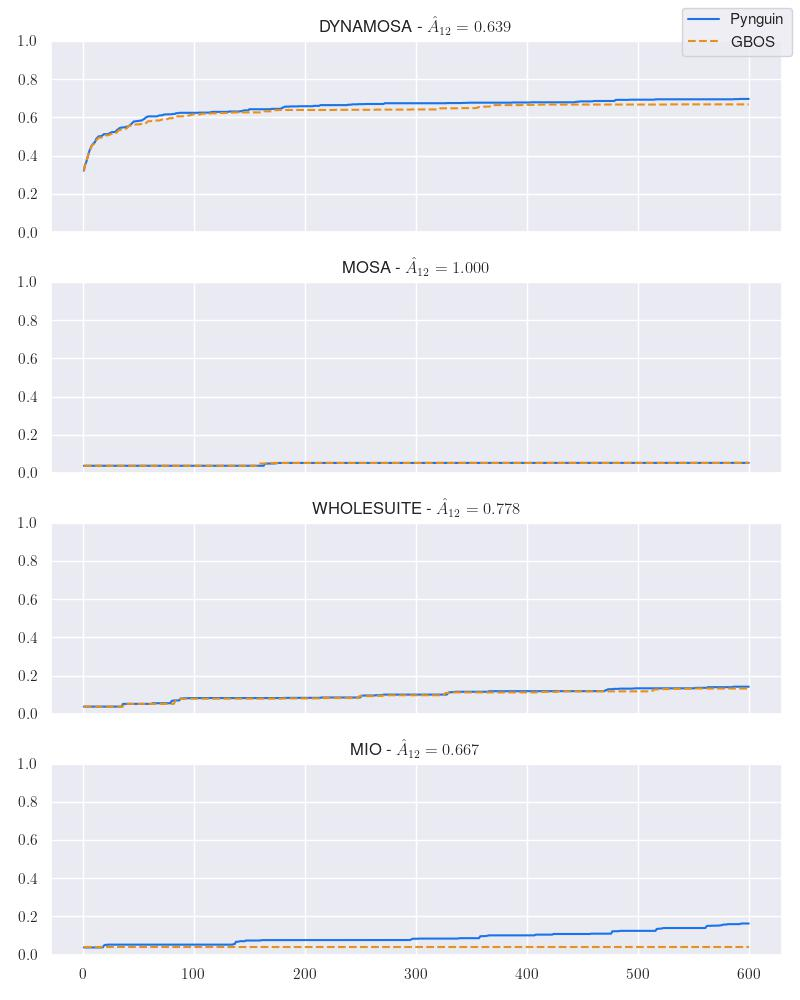
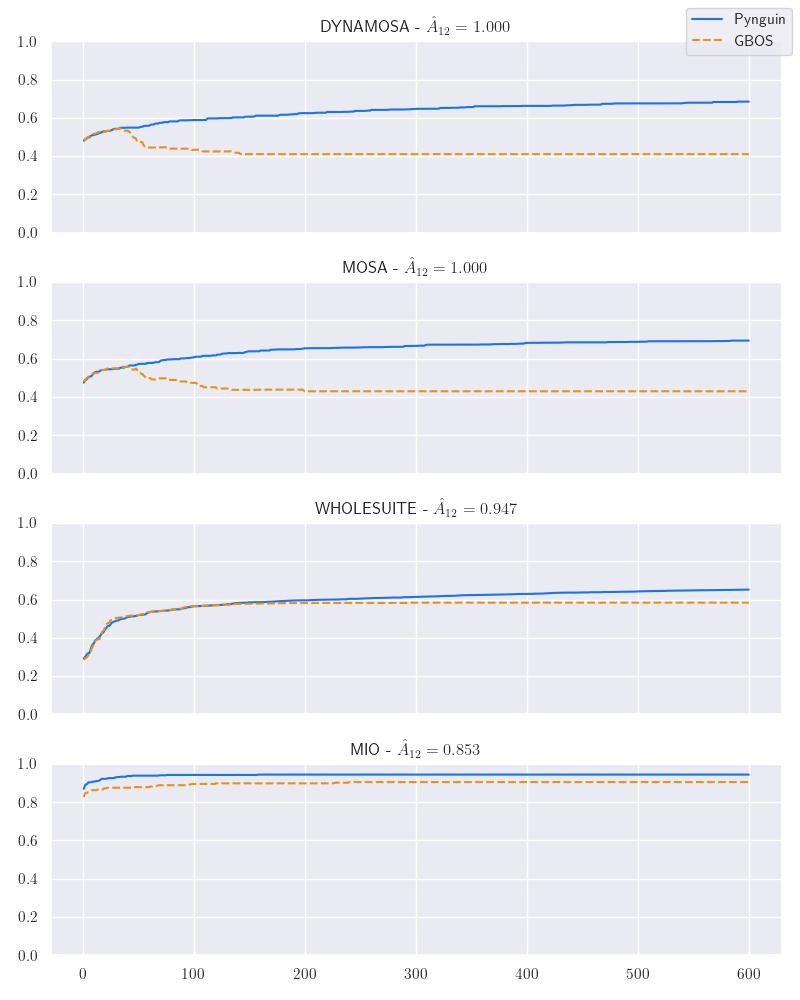
Update

diff --git a/pynguinGraphBasedObjectGen.tex b/pynguinGraphBasedObjectGen.tex
@@ -31,6 +31,9 @@
 \usepackage{rotating}
 
 \addbibresource{ref.bib}
+\input{Figures/Results/rq1_bar_plot_vars.tex}
+\input{Figures/Results/rq1_search_time_vars.tex}
+\input{Figures/Results/average_cohen.tex}
 
 
 
@@ -708,19 +711,18 @@ The values for percentage difference between both approaches over the average va
 Figure~\ref{fig:times} describes through two plots the overall search time and the time needed by the extension per phase.
 For these plots, only were accounted those modules that had valid results in the 8 configurations at the same time.
 The violin plot on the left, shows the Search Time distribution of the runs, revealing that both Pynguin and the extension use the full budget of 600 seconds for any computation that is not related to the GBOS extension.
-The percentage change (e.g.~\(\frac{\text{GBOSValue} - \text{PynguinValue}}{\text{PynguinValue}}\times 100\)) for the average values of the distributions presented in this plot, are \(-0.006\), \(-0.002\), \(0.005\) and \(-0.013\) respectively, from left to right.
+The percentage change (e.g.~\(\frac{\text{GBOSValue} - \text{PynguinValue}}{\text{PynguinValue}}\times 100\)) for the average values of the distributions presented in this plot are \(\SearchTimeDYNAMOSA\), \(\SearchTimeMOSA\), \(\SearchTimeWHOLESUITE\) and \(\SearchTimeMIO\) respectively, from left to right.
 
 Regarding the times that are considered while doing any GBOS-related operation, the bar plot on the right shows a comparison of the average values per module, per algorithm, of the time spent in deciding if the current iteration generates a test template or not (Decision Time), time spent generating the test templates (Generation Time), and the Search Time as baseline.
 By looking at the sizes of the different sections of each algorithms' bars, it is safe to state that compared to the other options, MIO is the algorithm that is affected the most with the extra computational effort that the GBOS extension generates.
 This can be explained by the lightweight nature of the evolution steps implemented in Pynguin, which are reduced to only selecting a new test case if necessary and mutating it the maximum amount of times possible depending on the algorithm's parameters.
-Considering a comparison between the Search Time and the Decision Time, MIO obtains a percentage change of \(-31.773\), while the other algorithms have values ranging between \(-99.293\) and \(-98.995\).
-With respect to the Generation Time, the comparison using percentage change of MIO gives a value of \(-71.011\), while the other algorithms have values ranging between \(-99.839\) and \(-98.385\).
+Considering a comparison between the Search Time and the Decision Time, MIO obtains a percentage change of \(\DiffDecMIO\), while the other algorithms have values ranging between \(\DiffDecMin\) and \(\DiffDecMax\).
+With respect to the Generation Time, the comparison using percentage change of MIO gives a value of \(\DiffGenMIO\), while the other algorithms have values ranging between \(\DiffGenMin\) and \(\DiffGenMax\).
 
 The data reported in Table~\ref{tab:performance} shows the mean coverage of all tested modules per approach, the p-Values obtained through statistical Mann-Whitney U tests and Cohen's D effect size measures, in any pair of algorithm and runtime budget.
 Generally, all p-Values are greater than \(0.05\) with respect to the sets of obtained branch coverage values in each module, accepting the null hypothesis that assumes no effect or statistical difference between the distributions.
 Complementary, Figure~\ref{fig:coverage} shows the branch coverage results and their distribution through the runs of the 8 different parameter configurations.
 The presented violin plots imply that in general, both approaches to the test generation for the set of Python modules got similar results, based on the form of the plots' probability density, the position of the median and the position of the interquartile range.
-%For more precise data, when calculating the percentage difference between Pynguin and the GBOS extension over the average value of the plotted distributions; DYNAMOSA, MOSA, WHOLE\_SUITE and MIO get values of \(-0.27\%\), \(-0.14\%\), \(-0.28\%\) and \(-0.68\%\) respectively. 
 
 \begin{figure}[tbh]
   \centering
@@ -729,7 +731,7 @@ The presented violin plots imply that in general, both approaches to the test ge
 \end{figure}
 
 Nonetheless, it is noticeable that all values of Cohen's D effect size in Table~\ref{tab:performance} are negative, meaning that the best distributions of coverage values are found while using Pynguin without the GBOS extension.
-This strongly implies that in a general Python developing scenario the usage of the GBOS extension is not advised nor makes any considerable improvement in coverage results, as the mean effect size found in the last time step budget of the runs gets a value of \(-0.04\) over all algorithms, contrary to the value of \(0.21\) (in favour of EvoObj) obtained by Yun Lin et al.\ over all the algorithms used in their experimental phase for the maximum budget of 300 seconds. 
+This strongly implies that in a general Python developing scenario the usage of the GBOS extension is not advised nor makes any considerable improvement in coverage results, as the mean effect size found in the last time step budget of the runs gets a value of \(\AverageCohen\) over all algorithms, contrary to the value of \(0.21\) (in favour of EvoObj) obtained by Yun Lin et al.\ over all the algorithms used in their experimental phase for the maximum budget of 300 seconds. 
 
 \begin{table}[h!]
   \centering
@@ -745,24 +747,7 @@ A summary of the amount of modules used in every step of this research question 
 
 \begin{table}[t]
   \centering
-  \begin{tabular}{lcccc}\toprule
-    \multicolumn{1}{c}{\multirow{2}{*}{\# Modules}} & \multicolumn{4}{c}{Pynguin}                \\ \cmidrule(lr){2-5}
-    \multicolumn{1}{c}{}                            & DynaMOSA & MOSA    & WHOLE SUITE & MIO     \\ \midrule
-    Initial Set                                     & \(557\)  & \(553\) & \(555\)     & \(551\) \\
-    RQ1 Before Intersection                         & \(541\)  & \(540\) & \(544\)     & \(538\) \\
-    RQ1 After Intersection                          & \(187\)  & \(187\) & \(187\)     & \(187\) \\ 
-    \bottomrule
-  \end{tabular} 
-  \centering 
-  \begin{tabular}{lcccc}\toprule
-    \multicolumn{1}{c}{\multirow{2}{*}{\# Modules}} & \multicolumn{4}{c}{GBOS}                   \\ \cmidrule(lr){2-5}
-    \multicolumn{1}{c}{}                            & DynaMOSA & MOSA    & WHOLE SUITE & MIO     \\ \midrule
-    Initial Set                                     & \(529\)  & \(523\) & \(551\)     & \(289\) \\
-    RQ1 Before Intersection                         & \(389\)  & \(407\) & \(449\)     & \(193\) \\
-    RQ1 After Intersection                          & \(187\)  & \(187\) & \(187\)     & \(187\) \\ 
-    \bottomrule
-  \end{tabular}
-
+  \input{Figures/Results/rq1-modules.tex}
 \caption{Amount of modules used while analysing each experimental configuration  for the answering of Research Question 1.}\label{tab:modrq1}
 \end{table}
 
@@ -776,25 +761,92 @@ A summary of the amount of modules used in every step of this research question 
 \subsection*{Discussion}
 
 With the results in Table~\ref{tab:performance}, it is shown once more how the extra computational effort needed while using the GBOS extension does not influence the obtained coverage results, at least as a rule of thumb.
-Another possible factor that explains the lack of improvement in the coverage results, is the absence of a need for complex object inputs by the modules under test in order to reach all target branches.
+One possible factor that explains the lack of improvement, is the absence of a need for complex object inputs by the modules under test in order to reach all target branches (which will be exemplified later).
 This latter argument can be backed up partially with the results in Figure~\ref{fig:times}, which tell that even after the applied filtering, some modules still could reach a full branch coverage with the tests provided by an initial population of test chromosomes (e.g.~getting a Search Time of 0 [sec]).
-In addition, the data per time budget step mostly says that during the coverage evolution of Pynguin using MIO, there is persistent difference in performance while using the extension, which can be attributed to the random nature of the Search Based algorithms, or to the inter-iteration time difference in the Search Time variable when using the extension, in the case of the final time step of 600 seconds.
+In addition, the data per time budget step mostly says that during the coverage evolution of Pynguin using MIO, there is a slightly bigger difference in performance while using the extension, which can be attributed to the random nature of the Search Based algorithms, or to the inter-iteration time difference in the Search Time variable when using the extension, in the case of the final time step of 600 seconds.
 
-Figures~\ref{fig:worst} and~\ref{fig:best} show the branch coverage evolution along the 600 seconds budget for those modules that obtained the best and worst effect size values on each algorithm.
-In the first and second graphs together, during the whole search time budget it can be remarked how both curves have the same results, following the behaviour already found in Table~\ref{tab:performance}.
-This can be backed by the number of runs successfully executed, as all of these modules had a small difference between the both main approaches, ranging from \(2\) to \(7\).
-
-\begin{figure}[pbth]
-  \centering
-  \includegraphics[width=0.9\textwidth]{Figures/Results/worstES.jpg}
-  \caption{Branch coverage evolution for the modules that obtained the worst Cohen's D effect size value in each algorithm.}\label{fig:worst}
-\end{figure}
+Figure~\ref{fig:best} shows the branch coverage evolution along the 600 seconds budget for those modules that obtained the best effect size values on each algorithm.
+In these, during the whole search time budget it can be remarked how both curves have the same results, following the behaviour already found in Table~\ref{tab:performance}.
+This can be backed by the number of runs successfully executed, as all of these modules had at most 10 runs of difference between both the main approaches.
 
 \begin{figure}[ptbh]
   \centering
   \includegraphics[width=0.9\textwidth]{Figures/Results/bestES.jpg}
   \caption{Branch coverage evolution for the modules that obtained the best Cohen's D effect size value in each algorithm.}\label{fig:best}
 \end{figure}
+
+Although these graphs imply that the heuristic did not have any positive effect in the coverage results, this statement is not conclusive, as all the p-Values presented in Table~\ref{tab:performance} invalidate the statistical difference between both distributions.
+Taking this into account, the different information logs provided by Pynguin during the test template generation process were gathered in order to understand the general behaviour over the modules.
+Table~\ref{tab:flag_modules} shows the amount of modules in each one of the algorithms, that followed a certain scenario while using the GBOS heuristic.
+From the 588 original modules, the different sets that could be recognized are; those that had at least one correct run; those that had at least one log from the heuristic, and thus, started it; those that managed to create a non-empty template within their evolution process; those that created a template that brought no execution errors, and was added into the population; those that did not start a generation process because they had no branch coverage goals to choose from; and those that finished their execution early, because of a Pynguin-related runtime error (e.g.~a thread had to be killed, the maximum recursion depth was met, or the exception ``Bug in Pinguin!'' was raised). 
+
+
+\begin{table}[t]
+  \centering
+  \input{Figures/Results/flags-modules.tex}
+\caption{Sizes of the different relevant module groups gathered from the set of runs provided by the GBOS extension.}\label{tab:flag_modules}
+\end{table}
+
+At this point, the last two types of relevant modules would be those that either: got an increase in coverage, defying the current no improvement conclusions; or got a similar coverage result, but in fewer algorithm iterations.
+With these in mind, ``jose.backends.native'' and ``slugify.\_\_main\_\_'' are for each case the best modules respectively, with an improvement of \(0.045\) points in branch coverage, and a reduction of \(-99.587\%\) in the amount of iterations (both while executing the extension with MIO).
+
+Nonetheless, both of these modules have no type annotations regarding any class with attributes, nor any if-else guard that uses any complex object (see Listings~\ref{lst:7} and~\ref{lst:8}) as most of the boolean values are comparisons of string by themselves, or as collections keys.
+This would imply that the improvement in coverage was given by the chosen Pynguin seeds, and the reduction in iteration number obtained by the longer iteration time caused the usage of MIO, together with a convergence of coverage in the early evolution of the runs.
+
+\begin{figure}
+\begin{minted}[highlightlines={3, }]{python}
+  # Module jose.backend.native
+  def _process_jwk(self, jwk_dict):
+      if not jwk_dict.get("kty") == "oct":
+          raise JWKError("Incorrect key type. Expected: 'oct', Received: %s" % jwk_dict.get("kty"))
+      k = jwk_dict.get("k")
+      k = k.encode("utf-8")
+      k = bytes(k)
+      k = base64url_decode(k)
+      return k
+  def sign(self, msg):
+      return hmac.new(self.prepared_key, msg, self._hash_alg).digest()
+  '''
+  def new(key, msg=None, digestmod=''):
+      return HMAC(key, msg, digestmod)
+  '''
+  def verify(self, msg, sig):
+      return hmac.compare_digest(sig, self.sign(msg))
+  def to_dict(self):
+      return {"alg": self._algorithm,
+              "kty": "oct",
+              "k": base64url_encode(self.prepared_key).decode("ASCII"),}
+\end{minted}
+\caption{Example of methods from the module jose.backend.native, with highlighted branches.}\label{lst:7}
+\end{figure}
+
+\begin{figure}
+\begin{minted}[highlightlines={5, 7, 10, 14, 16, 18}]{python}
+  # Module slugify.__main__
+  def parse_args(argv: list[str]) -> argparse.Namespace:
+    parser = argparse.ArgumentParser(description="Slug string")
+    # Intermediary code
+    if args.input_string and args.stdin:
+        parser.error("Input strings and --stdin cannot work together")
+    if args.replacements:
+        def split_check(repl):
+            SEP = '->'
+            if SEP not in repl:
+                parser.error("Replacements must be of the form: ORIGINAL{SEP}REPLACED".format(SEP=SEP))
+            return repl.split(SEP, 1)
+        args.replacements = [split_check(repl) for repl in args.replacements]
+    if args.input_string:
+        args.input_string = " ".join(args.input_string)
+    elif args.stdin:
+        args.input_string = sys.stdin.read()
+    if not args.input_string:
+        args.input_string = ''
+    return args
+\end{minted}
+\caption{Example method from the module slugify.\_\_main\_\_, with highlighted branches.}\label{lst:8}
+\end{figure}
+
+% TODO - Add generated tests
 
 \newpage
 
@@ -821,24 +873,7 @@ A summary of the amount of modules used in every step of this research question 
 
 \begin{table}[t]
   \centering
-  \begin{tabular}{lcccc}\toprule
-    \multicolumn{1}{c}{\multirow{2}{*}{\# Modules}} & \multicolumn{4}{c}{Pynguin}                \\ \cmidrule(lr){2-5}
-    \multicolumn{1}{c}{}                            & DynaMOSA & MOSA    & WHOLE SUITE & MIO     \\ \midrule
-    Initial Set                                     & \(557\)  & \(553\) & \(555\)     & \(551\) \\
-    RQ2 Before Intersection                         & \(492\)  & \(490\) & \(494\)     & \(487\) \\
-    RQ2 After Intersection                          & \(32\)   & \(31\)  & \(38\)      & \(8\)   \\ 
-    \bottomrule
-  \end{tabular} 
-  \centering 
-  \begin{tabular}{lcccc}\toprule
-    \multicolumn{1}{c}{\multirow{2}{*}{\# Modules}} & \multicolumn{4}{c}{GBOS}                   \\ \cmidrule(lr){2-5}
-    \multicolumn{1}{c}{}                            & DynaMOSA & MOSA    & WHOLE SUITE & MIO     \\ \midrule
-    Initial Set                                     & \(529\)  & \(523\) & \(551\)     & \(289\) \\
-    RQ2 Before Intersection                         & \(343\)  & \(360\) & \(401\)     & \(145\) \\
-    RQ2 After Intersection                          & \(32\)   & \(31\)  & \(38\)      & \(8\)   \\ 
-    \bottomrule
-  \end{tabular}
-
+  \input{Figures/Results/rq2-modules.tex}
 \caption{Amount of modules used while analysing each experimental configuration for the answering of Research Question 2.}\label{tab:modrq2}
 \end{table}
 
@@ -882,7 +917,7 @@ Analogously, the OLR distribution does not mean that for the great majority of m
   \caption{Histogram of Object-like ratio over the modules in the test set.}\label{fig:olr-hist}
 \end{figure}
 
-For a deeper understanding of the modules that reached the endmost effect size results in Figures~\ref{fig:worst},~\ref{fig:best},~\ref{fig:worsta12}~and~\ref{fig:besta12}, a final new developer output variable was added into the code of the GBOS extension, called ``GBOSFlags''.
+For a deeper understanding of the modules that reached the endmost effect size results in Figures~\ref{fig:best},~\ref{fig:worsta12}~and~\ref{fig:besta12}, a final new developer output variable was added into the code of the GBOS extension, called ``GBOSFlags''.
 This variable is a collection of three boolean values, which start with False as default, and change to True if any of the following conditions are met at any point during the test suite generation,
 \begin{itemize}
   \item a PDG, or a non-sliced OCG is created without errors

diff --git a/Figures/Results/rq1-modules.tex b/Figures/Results/rq1-modules.tex
@@ -1,0 +1,18 @@
+
+\begin{tabular}{lcccc}\toprule
+    \multicolumn{1}{c}{\multirow{2}{*}{\# Modules}} & \multicolumn{4}{c}{Pynguin}                \\ \cmidrule(lr){2-5}
+    \multicolumn{1}{c}{}                          & DynaMOSA & MOSA    & WHOLE SUITE & MIO     \\ \midrule
+    Initial Set                                     & \(557\)  & \(553\) & \(555\)     & \(551\) \\
+    RQ1 Before Intersection                         & \(541\)  & \(540\) & \(544\)     & \(538\) \\
+    RQ1 After Intersection                          & \(109\)  & \(109\) & \(109\)     & \(109\) \\ 
+    \bottomrule
+  \end{tabular}
+  \centering 
+  \begin{tabular}{lcccc}\toprule
+    \multicolumn{1}{c}{\multirow{2}{*}{\# Modules}} & \multicolumn{4}{c}{GBOS}                   \\ \cmidrule(lr){2-5}
+    \multicolumn{1}{c}{}                          & DynaMOSA & MOSA    & WHOLE SUITE & MIO     \\ \midrule
+    Initial Set                                     & \(553\)  & \(554\) & \(555\)     & \(527\) \\
+    RQ1 Before Intersection                         & \(529\)  & \(523\) & \(539\)     & \(118\) \\
+    RQ1 After Intersection                          & \(109\)  & \(109\) & \(109\)     & \(109\) \\ 
+    \bottomrule
+\end{tabular}

diff --git a/Figures/Results/rq2-modules.tex b/Figures/Results/rq2-modules.tex
@@ -1,0 +1,18 @@
+
+\begin{tabular}{lcccc}\toprule
+    \multicolumn{1}{c}{\multirow{2}{*}{\# Modules}} & \multicolumn{4}{c}{Pynguin}                \\ \cmidrule(lr){2-5}
+    \multicolumn{1}{c}{}                          & DynaMOSA & MOSA    & WHOLE SUITE & MIO     \\ \midrule
+    Initial Set                                     & \(557\)  & \(553\) & \(555\)     & \(551\) \\
+    RQ2 Before Intersection                         & \(492\)  & \(490\) & \(494\)     & \(487\) \\
+    RQ2 After Intersection                          & \(43\)  & \(42\) & \(46\)     & \(9\) \\ 
+    \bottomrule
+  \end{tabular}
+  \centering 
+  \begin{tabular}{lcccc}\toprule
+    \multicolumn{1}{c}{\multirow{2}{*}{\# Modules}} & \multicolumn{4}{c}{GBOS}                   \\ \cmidrule(lr){2-5}
+    \multicolumn{1}{c}{}                          & DynaMOSA & MOSA    & WHOLE SUITE & MIO     \\ \midrule
+    Initial Set                                     & \(553\)  & \(554\) & \(555\)     & \(527\) \\
+    RQ2 Before Intersection                         & \(479\)  & \(472\) & \(489\)     & \(115\) \\
+    RQ2 After Intersection                          & \(43\)  & \(42\) & \(46\)     & \(9\) \\ 
+    \bottomrule
+\end{tabular}

diff --git a/Figures/Results/300-table.tex b/Figures/Results/300-table.tex
@@ -1,9 +1,9 @@
 \begin{tabular}{lcccc}\toprule 
 \multirow{2}{*}{Coverage Performance} & \multicolumn{4}{c}{Budget - 300[s] } \\ \cmidrule(lr){2-5}  
                                       & DYNAMOSA&MOSA&WHOLESUITE&MIO                         \\ \midrule 
-GBOS                                  & \(0.62\)&\(0.62\)&\(0.62\)&\(0.61\)                       \\ 
-Pynguin                               & \(0.62\)&\(0.62\)&\(0.62\)&\(0.62\)                       \\ 
-p Value                               & \(1.0\)&\(1.0\)&\(0.98\)&\(0.93\)                     \\ 
-Cohen's D Effect Size                 & \(0.01\)&\(0.01\)&\(-0.01\)&\(-0.2\)                       \\ 
+GBOS                                  & \(0.58\)&\(0.58\)&\(0.54\)&\(0.55\)                       \\ 
+Pynguin                               & \(0.59\)&\(0.58\)&\(0.54\)&\(0.56\)                       \\ 
+p Value                               & \(0.79\)&\(0.83\)&\(0.78\)&\(0.62\)                     \\ 
+Cohen's D Effect Size                 & \(-0.29\)&\(-0.21\)&\(-0.25\)&\(-0.75\)                       \\ 
 \bottomrule 
 \end{tabular}

diff --git a/Figures/Results/450-table.tex b/Figures/Results/450-table.tex
@@ -1,9 +1,9 @@
 \begin{tabular}{lcccc}\toprule 
 \multirow{2}{*}{Coverage Performance} & \multicolumn{4}{c}{Budget - 450[s] } \\ \cmidrule(lr){2-5}  
                                       & DYNAMOSA&MOSA&WHOLESUITE&MIO                         \\ \midrule 
-GBOS                                  & \(0.62\)&\(0.62\)&\(0.62\)&\(0.61\)                       \\ 
-Pynguin                               & \(0.62\)&\(0.62\)&\(0.62\)&\(0.62\)                       \\ 
-p Value                               & \(1.0\)&\(1.0\)&\(0.99\)&\(0.93\)                     \\ 
-Cohen's D Effect Size                 & \(0.01\)&\(0.0\)&\(-0.01\)&\(-0.19\)                       \\ 
+GBOS                                  & \(0.59\)&\(0.59\)&\(0.55\)&\(0.55\)                       \\ 
+Pynguin                               & \(0.59\)&\(0.59\)&\(0.55\)&\(0.57\)                       \\ 
+p Value                               & \(0.79\)&\(0.81\)&\(0.75\)&\(0.61\)                     \\ 
+Cohen's D Effect Size                 & \(-0.33\)&\(-0.23\)&\(-0.26\)&\(-0.78\)                       \\ 
 \bottomrule 
 \end{tabular}

diff --git a/Figures/Results/600-table.tex b/Figures/Results/600-table.tex
@@ -1,9 +1,9 @@
 \begin{tabular}{lcccc}\toprule 
 \multirow{2}{*}{Coverage Performance} & \multicolumn{4}{c}{Budget - 600[s] } \\ \cmidrule(lr){2-5}  
                                       & DYNAMOSA&MOSA&WHOLESUITE&MIO                         \\ \midrule 
-GBOS                                  & \(0.62\)&\(0.62\)&\(0.62\)&\(0.62\)                       \\ 
-Pynguin                               & \(0.62\)&\(0.62\)&\(0.62\)&\(0.62\)                       \\ 
-p Value                               & \(1.0\)&\(1.0\)&\(0.99\)&\(0.94\)                     \\ 
-Cohen's D Effect Size                 & \(0.01\)&\(0.0\)&\(-0.0\)&\(-0.17\)                       \\ 
+GBOS                                  & \(0.59\)&\(0.59\)&\(0.55\)&\(0.55\)                       \\ 
+Pynguin                               & \(0.6\)&\(0.59\)&\(0.55\)&\(0.58\)                       \\ 
+p Value                               & \(0.77\)&\(0.82\)&\(0.76\)&\(0.63\)                     \\ 
+Cohen's D Effect Size                 & \(-0.35\)&\(-0.23\)&\(-0.27\)&\(-0.8\)                       \\ 
 \bottomrule 
 \end{tabular}

diff --git a/Figures/Results/flags-modules.tex b/Figures/Results/flags-modules.tex
@@ -1,0 +1,11 @@
+
+\begin{tabular}{lcccc}\toprule
+    \multicolumn{1}{c}{\# Modules that}    & DynaMOSA   & MOSA      & WHOLE SUITE   & MIO     \\ \midrule
+    had correct runs                               & \(553\)  & \(554\) & \(555\)     & \(527\) \\
+    had logs from the heuristic                    & \(399\)  & \(393\) & \(402\)     & \(423\) \\
+    created a template                             & \(348\)  & \(342\) & \(357\)    & \(355\) \\ 
+    added a template                               & \(347\)  & \(340\) & \(352\)    & \(353\) \\ 
+    had no coverage goals                          & \(35\)  & \(35\) & \(26\)    & \(52\) \\ 
+    had runtime errors                             & \(15\)  & \(20\) & \(13\)    & \(42\) \\ 
+    \bottomrule
+  \end{tabular}

diff --git a/Figures/Results/rq1_bar_plot_vars.tex b/Figures/Results/rq1_bar_plot_vars.tex
@@ -1,0 +1,6 @@
+\newcommand\DiffDecMIO{253.71}
+\newcommand\DiffGenMIO{31.90}
+\newcommand\DiffDecMin{-94.68}
+\newcommand\DiffDecMax{-91.76}
+\newcommand\DiffGenMin{-96.96}
+\newcommand\DiffGenMax{-96.14}

diff --git a/Figures/Results/rq1_search_time_vars.tex b/Figures/Results/rq1_search_time_vars.tex
@@ -1,0 +1,4 @@
+\newcommand\SearchTimeDYNAMOSA{-1.87}
+\newcommand\SearchTimeMOSA{-1.22}
+\newcommand\SearchTimeWHOLESUITE{-0.95}
+\newcommand\SearchTimeMIO{-6.90}

diff --git a/Figures/Results/average_cohen.tex b/Figures/Results/average_cohen.tex
@@ -1,0 +1,1 @@
+\newcommand\AverageCohen{-0.41}
